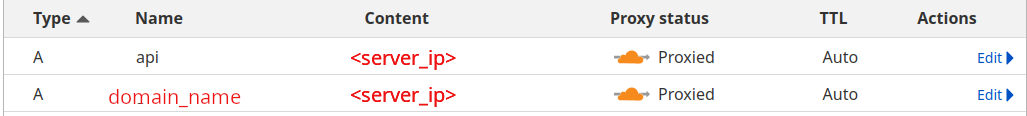
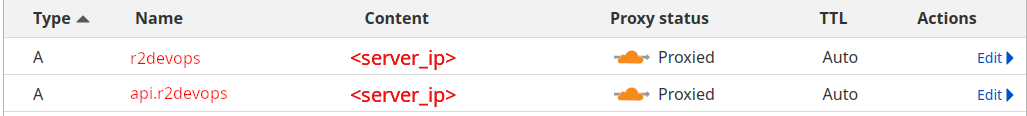
docs: rewrite more precisely sections

Changed region(s): [[0.0935, 0.75, 0.2493, 0.931], [0.1246, 0.4397, 0.2181, 0.569]]

diff --git a/docs/configuration-domain.md b/docs/configuration-domain.md
@@ -1,23 +1,20 @@
 
 # Configuration
 
-Great, you just finished to setup your server !
+Great, you just finished the installation.
 
 There are a few further steps to accomplish to get the self-hosted instance working.
 
 
 ### Domain name
 
-To access the frontend, you will have to type an URL inside your browser. To performs this, you will need to associate this URL with a Domain Name thanks to DNS Records.
-
-So you must own a Domain name and be able to configure DNS records to access your instance. 
+To access the application, you must own a Domain name and be able to configure DNS records to access your instance. 
 
 *If you have already one, you can skip this step an go to the [dns](#dns) section.*
 
-Otherwise, your company should have at least one Domain Name if you have an online website.
-If you don't know where to find access to modify it, you should ask your administrator.
+If you don't know where to find the access to modify it, you should ask your administrator.
 
- Once you have the information, you can move to the next step 😀
+Once you have the information, you can move to the next step 😀
 
 ??? example "Performs test with a free domain name"
     If you want to test the self-hosted behavior, without modifying the internal DNS of your company, you could use a free domain name from [Freenom](https://www.freenom.com/en/index.html?lang=en) or [No-IP](https://www.noip.com/).
@@ -33,9 +30,9 @@ The application needs two DNS records to work properly:
 * One for the frontend, which is the main URL of the application and the one you will use to access it.
 * One for the backend, which is the URL of the API.
 
-By default the frontend URL is configured for `https://<your-domain-name>` and the backend URL to `https://api.<your-domain-name>`.
+By default the frontend URL is configured for `https://r2devops.<your-domain-name>` and the backend URL to `https://api.r2devops.<your-domain-name>`.
 
-For example, if you own the domain name `mydomain.com`, the frontend URL will be `https://mydomain.com` and the backend URL will be `https://api.mydomain.com`.
+For example, if you own the domain name `mydomain.com`, the frontend URL will be `https://r2devops.mydomain.com` and the backend URL will be `https://api.r2devops.mydomain.com`.
 
 !!! info "About our infra"
     On our side, we use [Cloudflare](https://www.cloudflare.com/) to manage our DNS records.
@@ -49,12 +46,12 @@ To start, you need to create two DNS records for your domain name.
 Here are the two records you need to create:
 
 1. A record for the frontend URL
-    * Name: `@` or `<domain-name>` *Replace the domain name by it's value*
+    * Name: `@` or `r2devops`
     * Type: `A`
     * Value: `<your-server-ip>`
 
 2. A record for the backend URL
-    * Name: `api`
+    * Name: `api.r2devops`
     * Type: `A`
     * Value: `<your-server-ip>`
 

diff --git a/docs/configuration-oidc.md b/docs/configuration-oidc.md
@@ -17,11 +17,11 @@ If you have a group, search for it inside the Group menu and then on the sidebar
 ??? info "Create a group for your company"
     If you don't have a common group with your colleagues on GitLab, it is recommended to create one.
 
-    :fontawesome-solid-circle-info: As this application may be managed by other people of your team, it makes sense to share access to the OIDC access with other.
+    👉 As this application may be managed by other people of your team, it makes sense to share access to the OIDC access with other.
 
     1. Creating a group can be done, inside the menu bar by clicking on  `View all groups` and then press the blue `New Group` button. 
     ![Navigate group](images/naviguate-group.png)
-    1. Then create the group by filling the form with information.
+    2. Then create the group by filling the form with information.
     ![Create a group](images/create-group.png){width=400}
 
     *Don't forget to invite members with their email addresses.* 
@@ -32,25 +32,19 @@ Complete with the following information :
 
 * Name: `R2Devops self-hosted`  
 * Redirect URI : `https://<API_URL>/kratos/public/self-service/methods/oidc/callback/gitlab`  
+- [x] confidential
 * Scopes: `openid, email`  
 
 And click on `Create Application`.
 
 !!! info "API_URL"
-    The API_URL is the URL of your self-hosted R2Devops' API. The value should be copied from the variable `API_URL` in the `local.env` file with the correct URL.
+    The API_URL is the URL of your self-hosted R2Devops' API. The value should be coherent with the content of the variable `API_URL` in the `local.env`.
 
 Now you should see the following screen:
 
 ![Application](images/application_created_gitlab.png)
 
 #### Update the configuration
-
-??? note "Manipulation inside your server"
-    This step should be done inside your server. You can connect to your server using SSH with the following command:
-    ```bash
-    ssh <user>@<host>
-    ```
-    See [Requirements](/requirements/#ssh) for more information.
 
 Copy the `Application ID` and the `Secret` and paste them in the `kratos.yml` file under the GitLab provider section :
 

diff --git a/docs/index.md b/docs/index.md
@@ -3,23 +3,36 @@
 
 This documentation will describe you with simple steps how to self-host your own R2Devops instance 🤖.
 
-!!! important "Before starting"
+???+ important "Before starting"
     In order to have a functional instance of R2Devops, some customization of the frontend applications are needed on our side before you can deploy it.  
 
-    👉 To do so, you need to tell us which URL you will use for the **frontend** and the **API**.  
+    👉 To do so, you need to tell us which domain name you will use for the application.  
 
     📔 Please check the section about [Domain name](/configuration-domain/#about-records) to fully understand our needs.
 
-    📨 Then write a mail to [thomas@r2devops.io](mailto:thomas@r2devops.io) specifying them.
+    📨 Then write a mail to [tech@r2devops.io](mailto:tech@r2devops.io) specifying them.
+
+
+???+ note "What you will need from us for the setup"
+     When you send us the domain name you will use, we will provide you the following :
+     
+     - `REPOSITORY_TOKEN` : a token to access the repository
+     - `REGISTRY_TOKEN` : a token to authenticate to our private registry
+     - `FRONTEND_IMAGE_TAG` : a specific tag for the frontend image
+
+     Keep those information safe, you will need them later.
+
+     ⚠ **Important** : We won"t save the tokens, so please keep them private and in a safer place.
+
 
 **Summary:**
 
 1. [Requirements](/requirements)
-1. [Configuration](/configuration-app)
-1. [Customization](/customization)
-1. [Troubleshooting](/troubleshooting)
+2. [Configuration](/configuration-app)
+3. [Customization](/customization)
+4. [Troubleshooting](/troubleshooting)
 
 !!! question "Don't find what you're looking for ?"
-    You can directly open an issue on the [repository](https://gitlab.com/r2devops/self-hosted) or write a mail to [thomas@r2devops.io](mailto:thomas@r2devops.io)
+    You can directly open an issue on the [repository](https://gitlab.com/r2devops/self-hosted) or write a mail to [tech@r2devops.io](mailto:tech@r2devops.io)
 
 

diff --git a/docs/troubleshooting.md b/docs/troubleshooting.md
@@ -8,7 +8,7 @@ Here are the common errors and how to solve them :
 ??? failure "CI/CD Catalog page load infinitely"
     This error occurs when the frontend application make a request to the backend but never get a response.
     It is a misconfiguration of the frontend Docker image for your instance.   
-    Please write a mail to [thomas@r2devops.io](mailto:thomas@r2devops.io) and explain him the problem.
+    Please write a mail to [tech@r2devops.io](mailto:tech@r2devops.io) and explain him the problem.
 
 ??? failure "The 'Get Started' page can't be accessed"
     It is an issue from the identity provider: [Ory Kratos](https://www.ory.sh/kratos/). You can check the logs of the faulty container with
@@ -23,7 +23,7 @@ Here are the common errors and how to solve them :
     service_name=Ory Kratos service_version=v0.8.0-alpha.3
     ```
 
-    Otherwise send a mail to [thomas@r2devops.io](mailto:thomas@r2devops.io), explaining the problem.
+    Otherwise send a mail to [tech@r2devops.io](mailto:tech@r2devops.io), explaining the problem.
 
 ??? failure "Redirect URI Invalid error in GitLab"
     This errors occurs when the Redirect URL set for your GitLab application doesn't correspond to the API_URL.
@@ -32,7 +32,7 @@ Here are the common errors and how to solve them :
 ---
 
 !!! question "Don't find what you're looking for ?"
-    You can directly open an issue on the [repository](https://gitlab.com/r2devops/self-hosted) or write a mail to [thomas@r2devops.io](mailto:thomas@r2devops.io)
+    You can directly open an issue on the [repository](https://gitlab.com/r2devops/self-hosted) or write a mail to [tech@r2devops.io](mailto:tech@r2devops.io)
 
 
 //TODO - add more troubleshooting tips

diff --git a/docs/configuration-app.md b/docs/configuration-app.md
@@ -3,24 +3,32 @@
 ### Install the application
 
 
-???+ warning "Server and non-Root user"
-
-    This step should be done inside your server. You can connect to your server using SSH with the following command:
-    ```bash
-    ssh <user>@<host>
-    ```
+???+ warning "Non-Root user"
     For permission reason perform the below commands with a **non-root user**, 👉 user should be different from `root`.
 
-    See [Requirements](/requirements/#ssh) for more information.
+
+#### Clone the repository 
 
 Once your system meet the requirements, you need to copy the repository inside the server :
 
 ```bash
-git clone https://gitlab.com/r2devops/self-hosted.git
+git clone https://r2devops:<REPOSITORY_TOKEN>gitlab.com/r2devops/self-hosted.git
 
 ```
 
-Then move inside the project folder and launch the following commands : 
+??? important "REPOSITORY_TOKEN"
+    You can find the `REPOSITORY_TOKEN` in the mail we sent you.
+
+??? failure "I get a `git clone` error"
+    Make sure you are pasting the right token!
+
+    Otherwise write a mail to [tech@r2devops.io](mailto:tech@r2devops.io) and ask him a `read_repository` token for self-hosted
+
+
+
+#### Set permissions and variables
+
+Then launch the following commands : 
 
 ```bash 
 cd self-hosted

diff --git a/docs/requirements.md b/docs/requirements.md
@@ -15,15 +15,7 @@ If all the requirements are met, you can directly continue to the next step.
 
 As some steps will be done inside your server, you should ensure you have access to it.
 
-Most of the time, you access a server through SSH. 
-
-??? note "I don't have the access"
-    If you don't have access to it, you can ask your administrator to give you an access to it.
-
-??? info "Setup the SSH key"
-    Otherwise, You should generate a SSH key and add it to your server, please refer to this [tutorial](https://www.digitalocean.com/community/tutorials/how-to-use-ssh-to-connect-to-a-remote-server).
-
-Afterward, you can use the following command to connect to your server:
+Most of the time, you access a server through SSH, so you can use the following command to connect to your server:
 
 ```bash
 ssh <user>@<host>
@@ -47,7 +39,7 @@ Otherwise, check the installation part in the [documentation](https://git-scm.co
 
 Docker Engine should be installed on your system, as well as Docker Compose which is used for orchestrating all services.
 
-First connect, your server with SSH and ensure Docker Engine and Docker Compose are installed.
+Ensure Docker Engine and Docker Compose are installed.
 
 ```bash
 docker --version

diff --git a/docs/configuration-check.md b/docs/configuration-check.md
@@ -1,6 +1,33 @@
 
 # Configuration
 
+Final steps : login to docker and ensure it is working !
+
+### Docker Pull
+
+It's time to ensure, you have the correct access rights to pull the frontend image.
+
+First change the `FRONTEND_IMAGE_TAG` uses by the frontend service :
+
+```yaml title="docker-compose.yml" hl_lines="2"
+  frontend:
+    image: registry.gitlab.com/r2devops/frontend:$FRONTEND_IMAGE_TAG
+```
+
+Then paste this command : 
+```bash
+docker login https://registry.gitlab.com/v2/r2devops
+```
+
+With the below information:
+
+- username: `r2devops`
+- password: `REGISTRY_TOKEN`
+
+
+??? info "Where should I find them ?"
+    `REGISTRY_TOKEN` and `FRONTEND_IMAGE_TAG` have been send to you by email at the [beginning](/).  
+
 ### Launch the application
 
 
@@ -12,6 +39,11 @@ Go inside the folder `self-hosted` and launch the following command :
 ```bash
 docker compose --env-file=local.env up -d
 ```
+??? failure "I get a `docker compose` error"
+    Make sure you are pasting the right token!
+
+    Otherwise write a mail to [tech@r2devops.io](mailto:tech@r2devops.io) and ask him a `read_registry` token for the frontend
+
 
 The terminal will start all services, you can ensure that they are all running :
 
